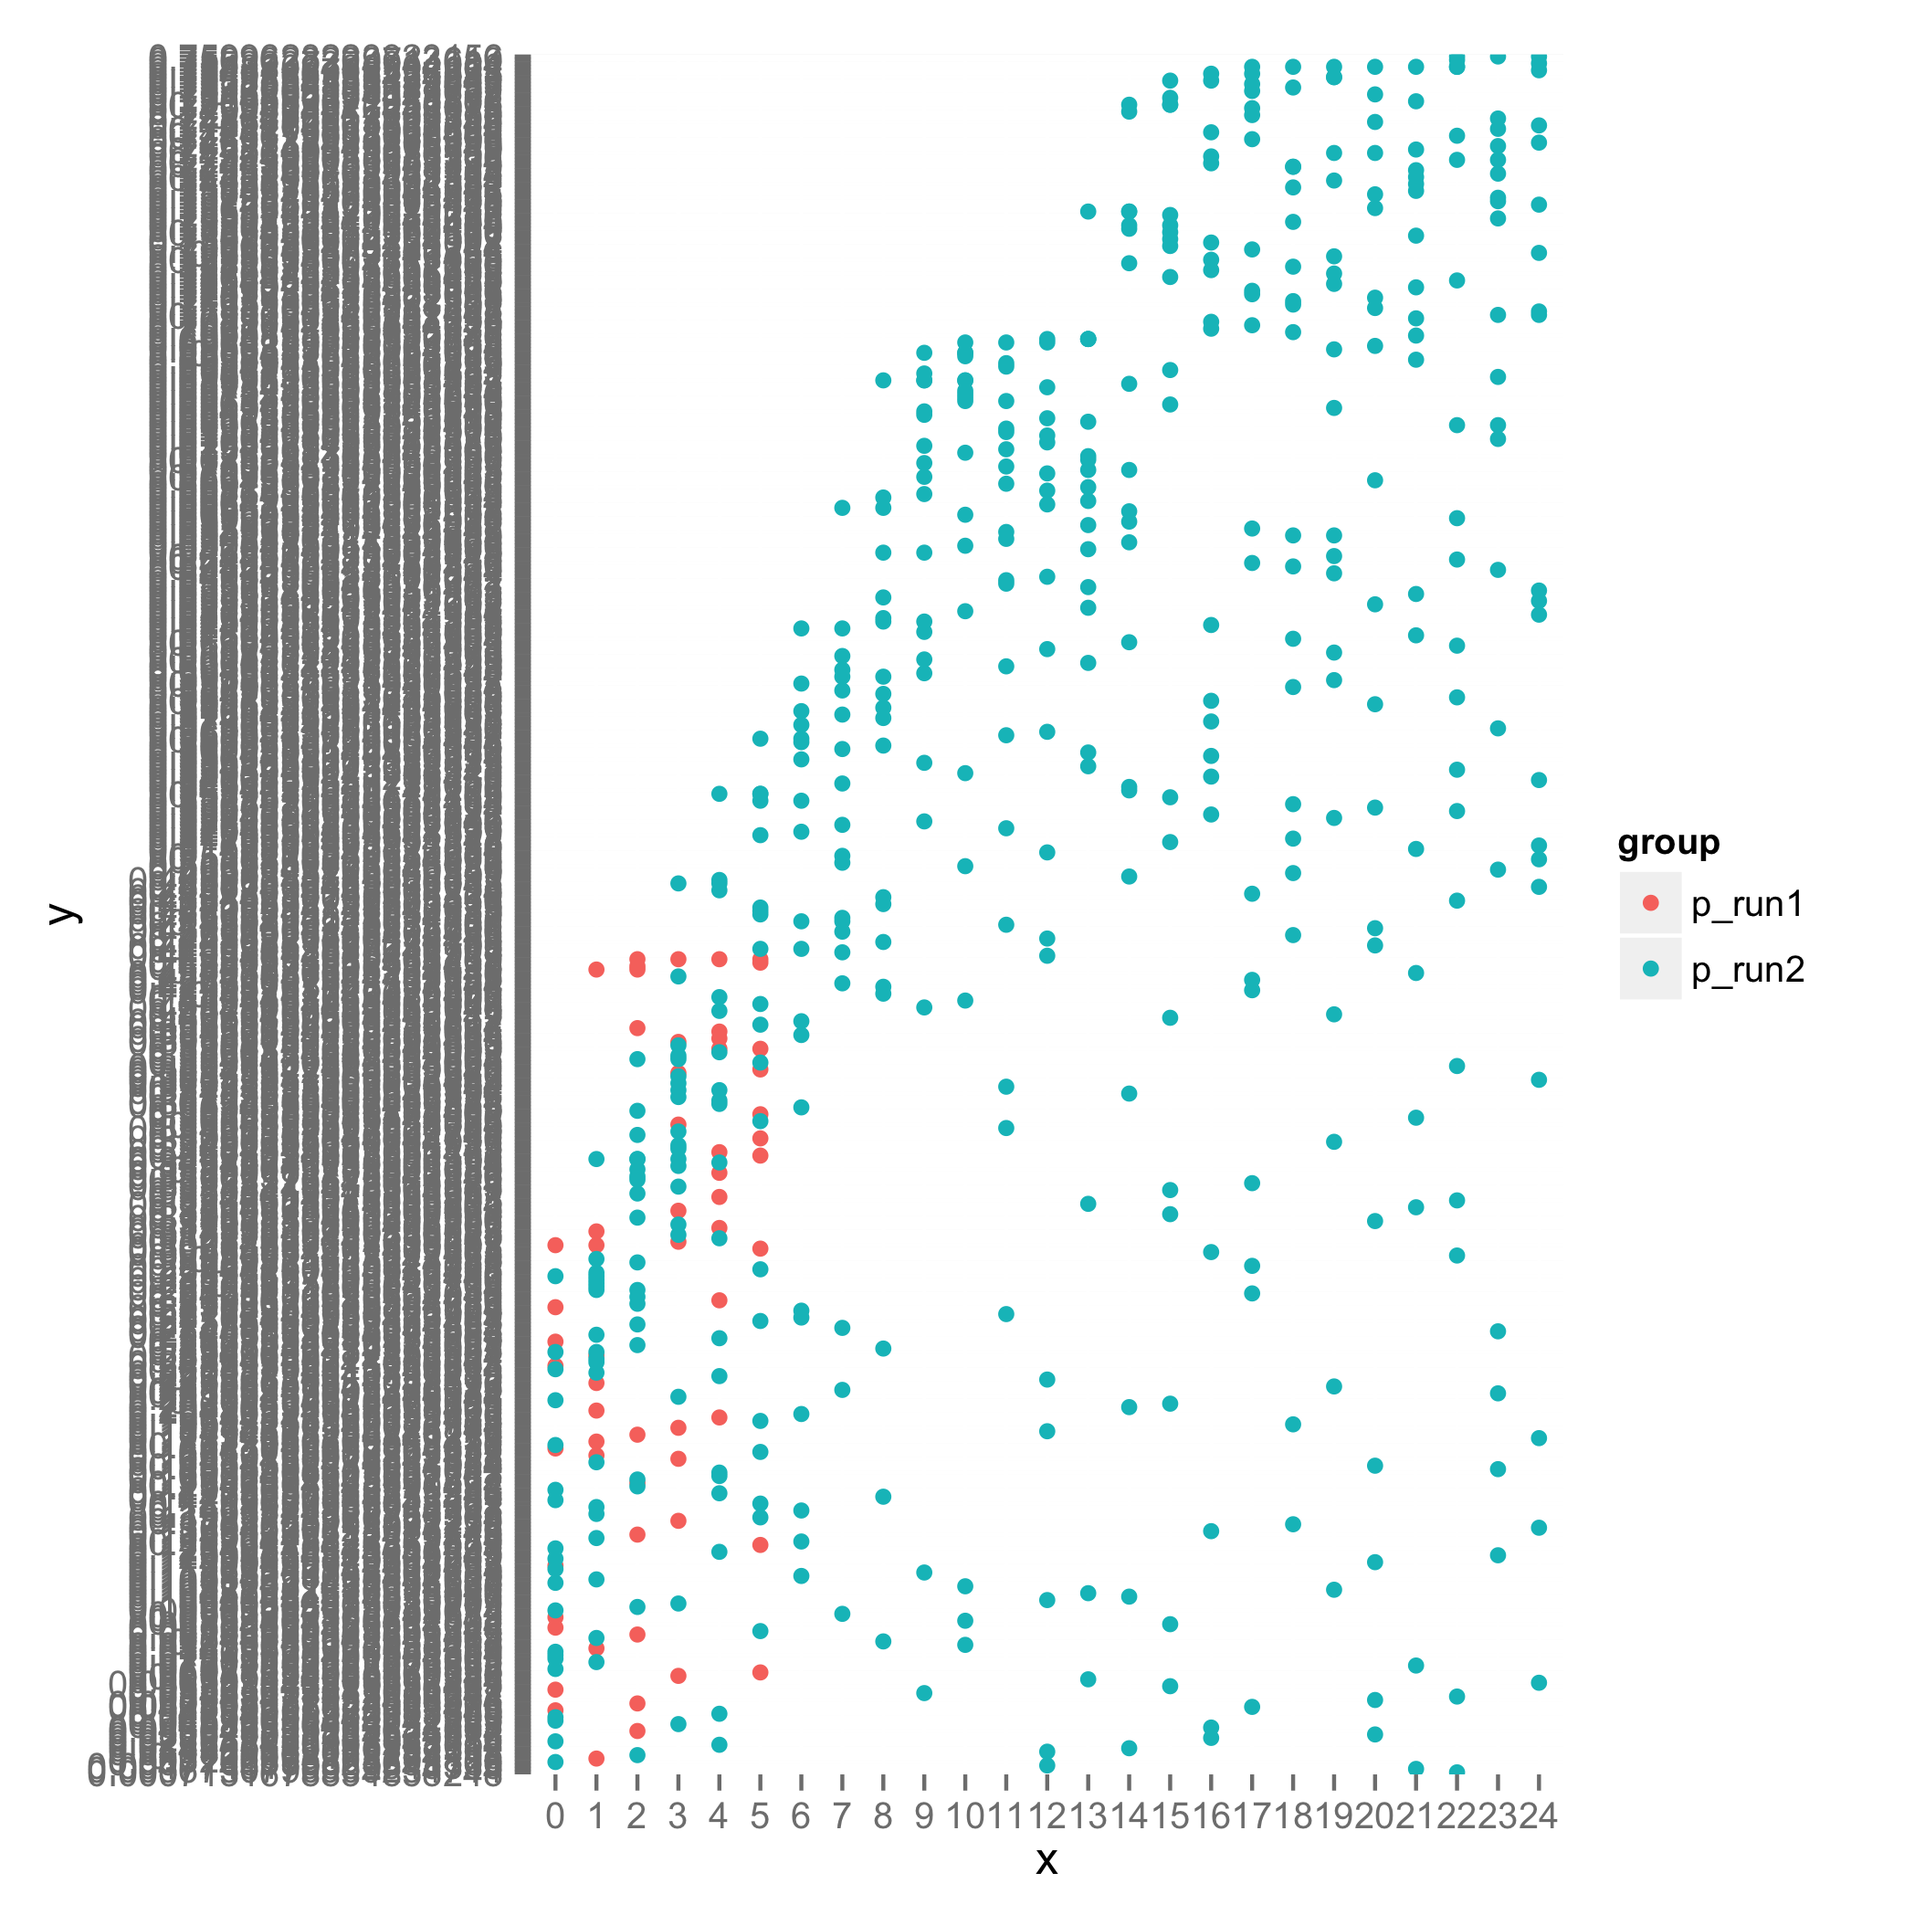
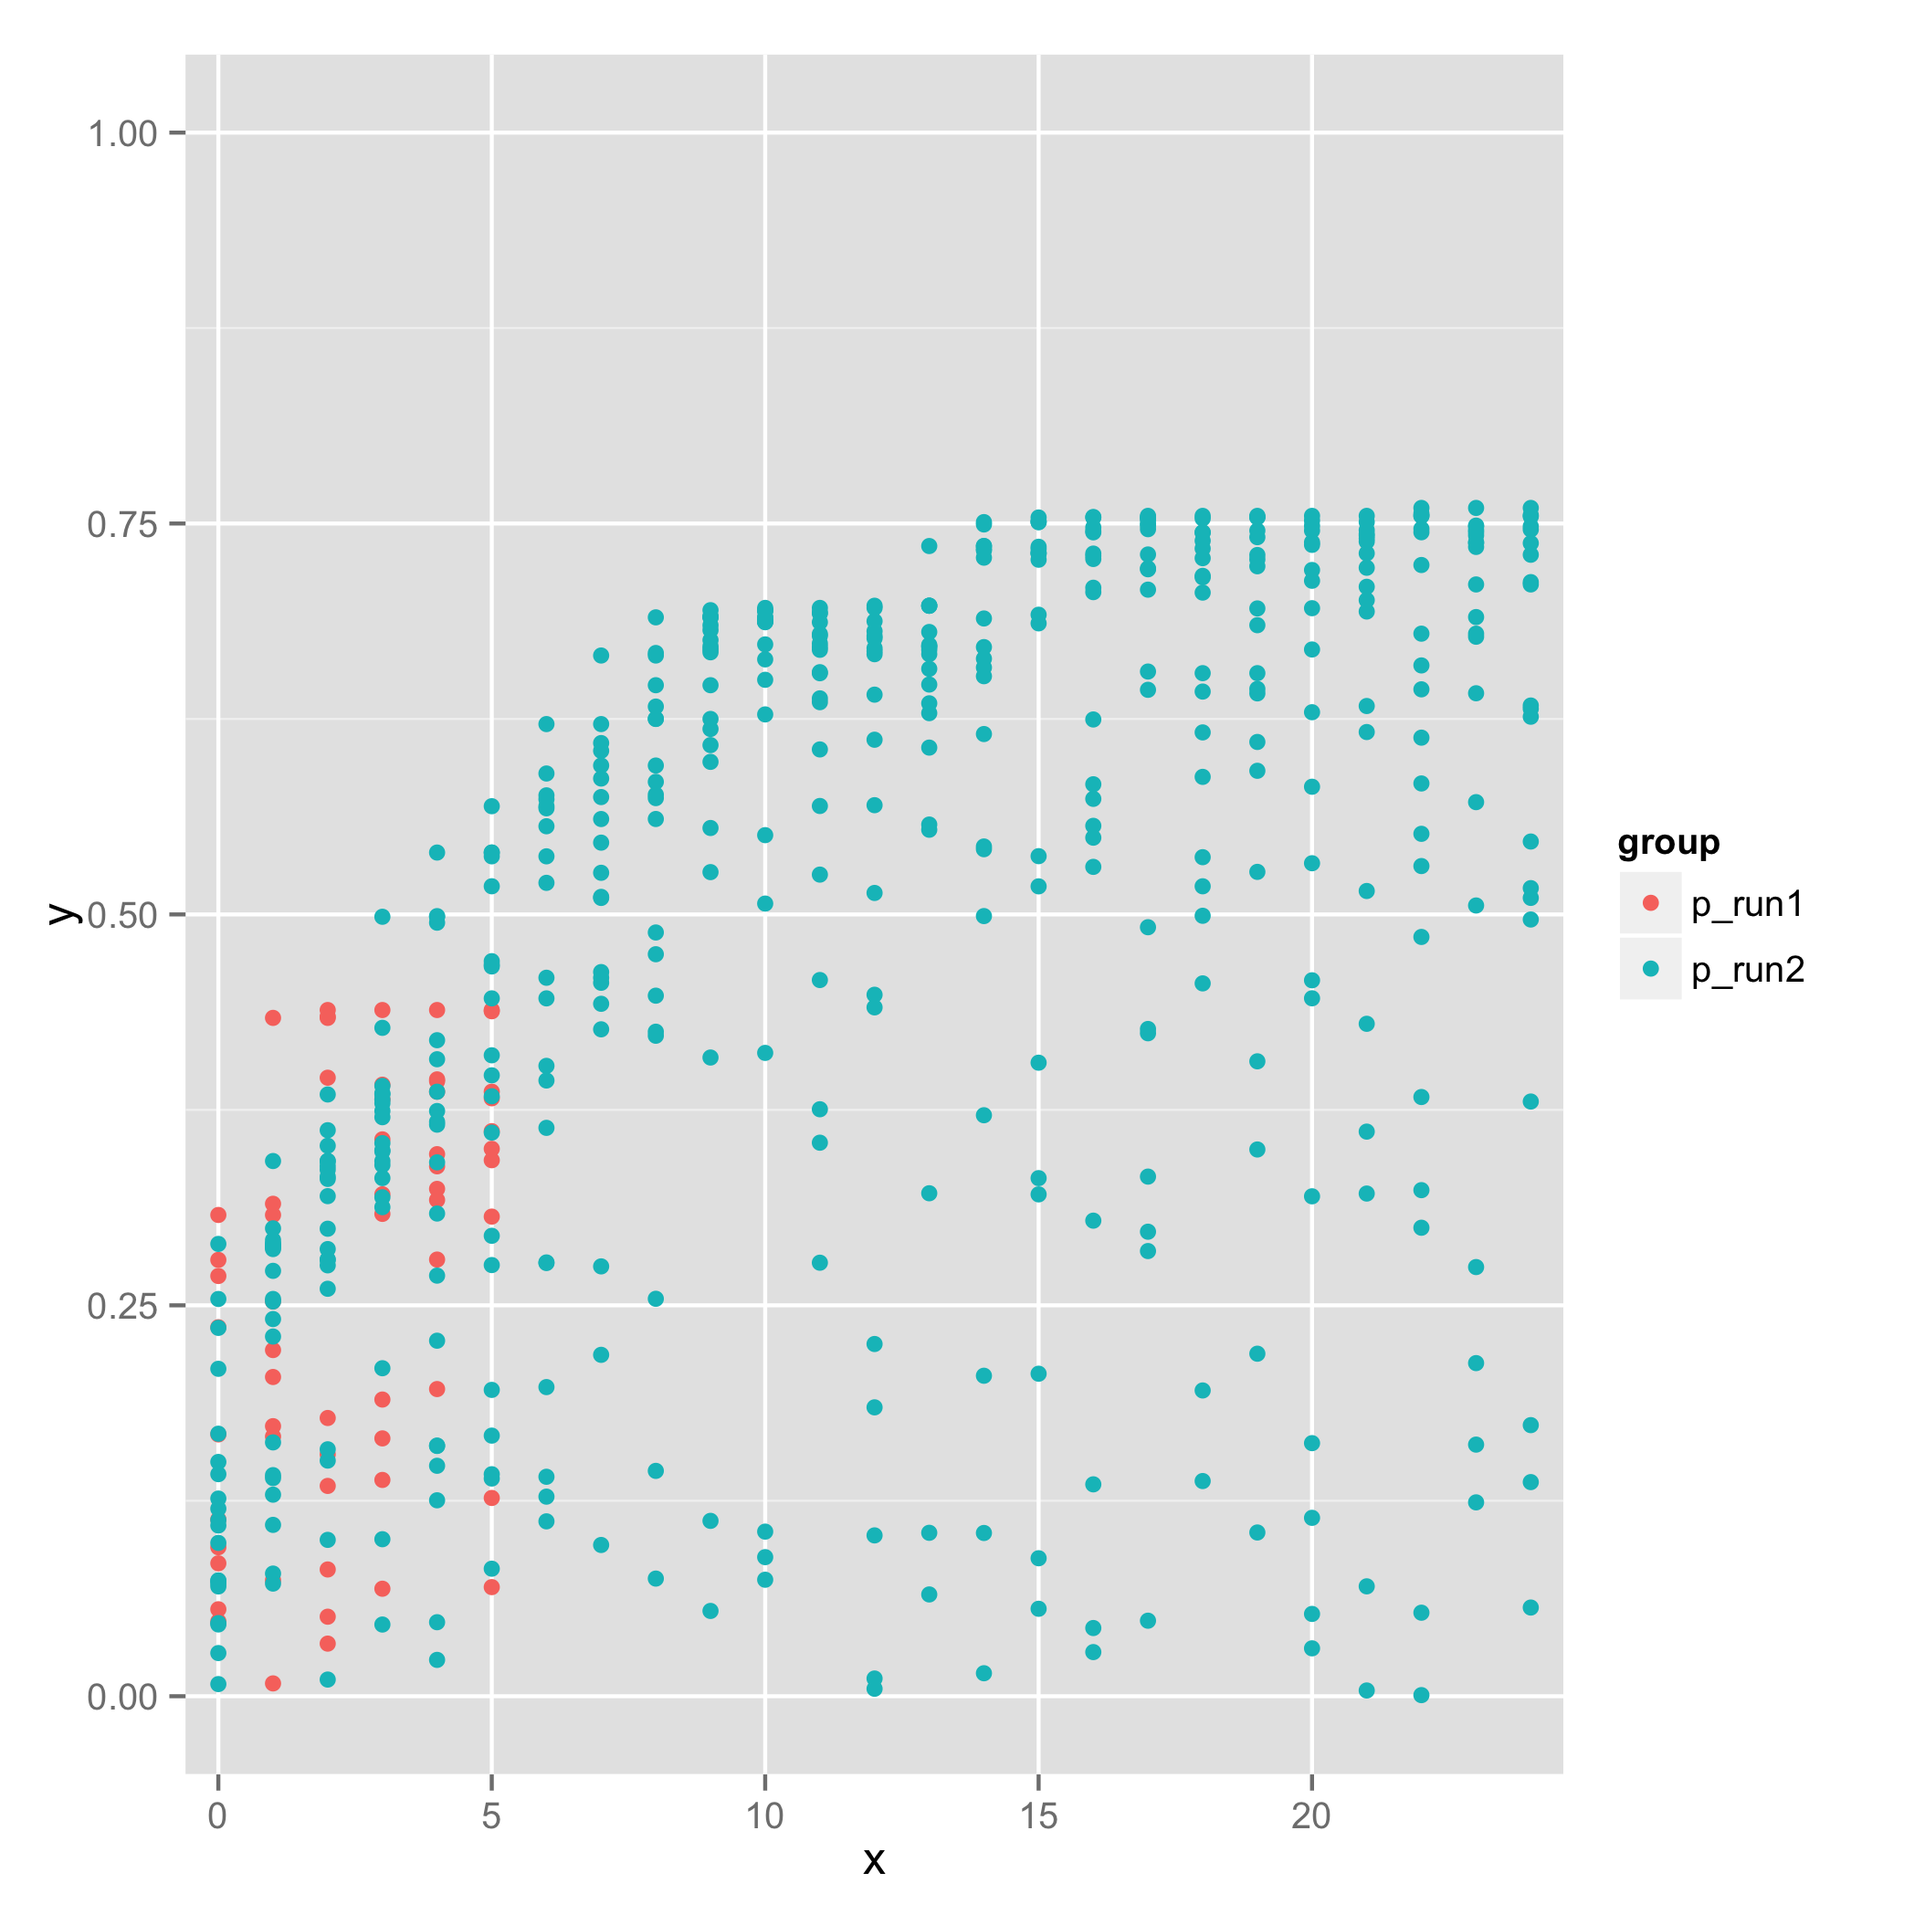
fixed y axis issue for umbrella plot

diff --git a/lib/score_plots/umbrella_plot.rb b/lib/score_plots/umbrella_plot.rb
@@ -64,7 +64,11 @@ class UPlot
 			x = 1
 			myr.eval "#{arrays[n]} <- c()"
 			array.each do |entry|
-				myr.assign 'entry', entry
+				if n == 1
+					myr.assign 'entry', entry.to_f
+				else
+					myr.assign 'entry', entry
+				end
 				myr.eval "#{arrays[n]} <- c(#{arrays[n]}, entry)"
 				puts x
 				x+=1
